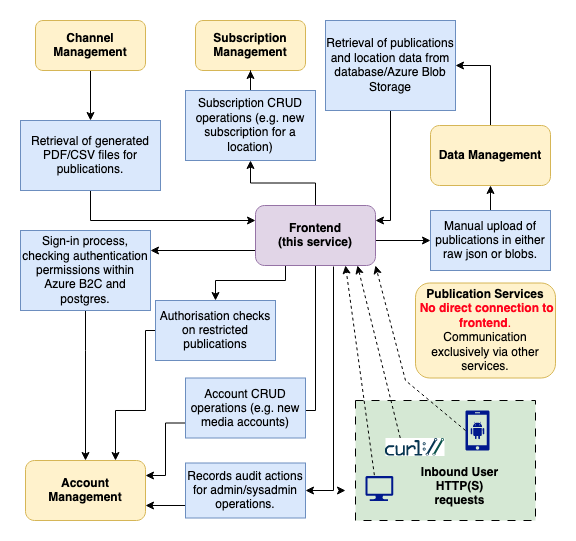
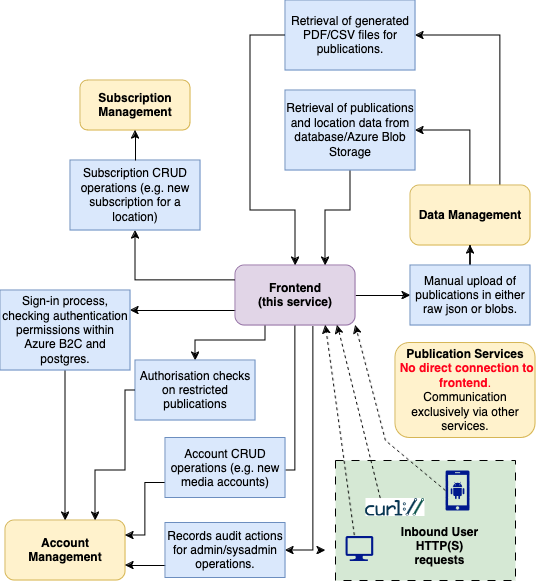
PUB-2359 Removed calls to channel-management (#1311)
* Removed calls to channel-management

* Bumping chart version/ fixing aliases

* Update readme diagram

* From line saying frontend is connecting to publication services from readme

* Update format of publication file endpoints

* Lint fixes

* Fixed failing unit tests

* Bumping chart version/ fixing aliases

* Bumping chart version/ fixing aliases

---------

diff --git a/src/test/unit/requests/publicationFileRequests.test.ts b/src/test/unit/requests/publicationFileRequests.test.ts
@@ -1,5 +1,5 @@
-import { channelManagementApi } from '../../../main/resources/requests/utils/axiosConfig';
-import { ChannelManagementRequests } from '../../../main/resources/requests/ChannelManagementRequests';
+import { dataManagementApi } from '../../../main/resources/requests/utils/axiosConfig';
+import { PublicationFileRequests } from '../../../main/resources/requests/PublicationFileRequests';
 import sinon from 'sinon';
 
 const dummyData = '123';
@@ -21,13 +21,13 @@ const fileSizeData = {
     excel: 123,
 };
 
-const channelManagementRequests = new ChannelManagementRequests();
+const publicationFileRequests = new PublicationFileRequests();
 
-const getStub = sinon.stub(channelManagementApi, 'get');
+const getStub = sinon.stub(dataManagementApi, 'get');
 
-getStub.withArgs('/publication/v2/abc').resolves({ data: dummyData });
-getStub.withArgs('/publication/v2/abc1').rejects(errorResponse);
-getStub.withArgs('/publication/v2/abc2').rejects(errorMessage);
+getStub.withArgs('/publication/abc/PDF').resolves({ data: dummyData });
+getStub.withArgs('/publication/abc1/PDF').rejects(errorResponse);
+getStub.withArgs('/publication/abc2/EXCEL').rejects(errorMessage);
 
 getStub.withArgs('/publication/abc/exists').resolves({ data: true });
 getStub.withArgs('/publication/abc1/exists').rejects(errorResponse);
@@ -37,52 +37,48 @@ getStub.withArgs('/publication/abc/sizes').resolves({ data: fileSizeData });
 getStub.withArgs('/publication/abc1/sizes').rejects(errorResponse);
 getStub.withArgs('/publication/abc2/sizes').rejects(errorMessage);
 
-describe('Channel Management requests', () => {
+describe('Publication file requests', () => {
     describe('Get stored file', () => {
         it('should return publication', async () => {
-            expect(
-                await channelManagementRequests.getStoredFile('abc', { 'x-user-id': userId, 'x-file-type': 'PDF' })
-            ).toEqual(dummyData);
+            expect(await publicationFileRequests.getStoredFile('abc', 'PDF', { 'x-user-id': userId })).toEqual(
+                dummyData
+            );
         });
 
         it('should return null if get fails', async () => {
-            expect(
-                await channelManagementRequests.getStoredFile('abc1', { 'x-user-id': userId, 'x-file-type': 'PDF' })
-            ).toBeNull();
+            expect(await publicationFileRequests.getStoredFile('abc1', 'PDF', { 'x-user-id': userId })).toBeNull();
         });
 
         it('should return null if request fails', async () => {
-            expect(
-                await channelManagementRequests.getStoredFile('abc2', { 'x-user-id': userId, 'x-file-type': 'EXCEL' })
-            ).toBeNull();
+            expect(await publicationFileRequests.getStoredFile('abc2', 'EXCEL', { 'x-user-id': userId })).toBeNull();
         });
     });
 
     describe('File exists', () => {
         it('should return true if file exists', async () => {
-            expect(await channelManagementRequests.fileExists('abc')).toEqual(true);
+            expect(await publicationFileRequests.fileExists('abc')).toEqual(true);
         });
 
         it('should return false and an error response if get fails', async () => {
-            expect(await channelManagementRequests.fileExists('abc1')).toEqual(false);
+            expect(await publicationFileRequests.fileExists('abc1')).toEqual(false);
         });
 
         it('should return false and an error response if request fails', async () => {
-            expect(await channelManagementRequests.fileExists('abc2')).toEqual(false);
+            expect(await publicationFileRequests.fileExists('abc2')).toEqual(false);
         });
     });
 
     describe('Get file sizes', () => {
         it('should return true if file exists', async () => {
-            expect(await channelManagementRequests.getFileSizes('abc')).toEqual(fileSizeData);
+            expect(await publicationFileRequests.getFileSizes('abc')).toEqual(fileSizeData);
         });
 
         it('should return false and an error response if get fails', async () => {
-            expect(await channelManagementRequests.getFileSizes('abc1')).toBeNull();
+            expect(await publicationFileRequests.getFileSizes('abc1')).toBeNull();
         });
 
         it('should return false and an error response if request fails', async () => {
-            expect(await channelManagementRequests.getFileSizes('abc2')).toBeNull();
+            expect(await publicationFileRequests.getFileSizes('abc2')).toBeNull();
         });
     });
 });

diff --git a/src/main/resources/requests/PublicationFileRequests.ts b/src/main/resources/requests/PublicationFileRequests.ts
@@ -1,17 +1,17 @@
-import { channelManagementApi } from './utils/axiosConfig';
+import { dataManagementApi } from './utils/axiosConfig';
 import { LogHelper } from '../logging/logHelper';
 import { PublicationFileSizes } from '../../models/PublicationFileSizes';
 
 const logHelper = new LogHelper();
 
-export class ChannelManagementRequests {
+export class PublicationFileRequests {
     /**
-     * Request to channel management to retrieve the stored PDF or Excel file from Azure blob storage.
+     * Request to data management to retrieve the stored PDF or Excel file from Azure blob storage.
      * @param artefactId the artefact ID of the PDF or Excel file in Azure blob storage.
      */
-    public async getStoredFile(artefactId, headers: object): Promise<string | null> {
+    public async getStoredFile(artefactId, fileType, headers: object): Promise<string | null> {
         try {
-            const response = await channelManagementApi.get(`/publication/v2/${artefactId}`, { headers });
+            const response = await dataManagementApi.get(`/publication/${artefactId}/${fileType}`, { headers });
             return response.data;
         } catch (error) {
             logHelper.logErrorResponse(
@@ -23,12 +23,12 @@ export class ChannelManagementRequests {
     }
 
     /**
-     * Request to channel management to check if any publication file exists.
+     * Request to data management to check if any publication file exists.
      * @param artefactId the artefact ID of the publication files in Azure blob storage.
      */
     public async fileExists(artefactId: string): Promise<boolean> {
         try {
-            const response = await channelManagementApi.get(`/publication/${artefactId}/exists`);
+            const response = await dataManagementApi.get(`/publication/${artefactId}/exists`);
             return response.data;
         } catch (error) {
             logHelper.logErrorResponse(
@@ -40,12 +40,12 @@ export class ChannelManagementRequests {
     }
 
     /**
-     * Request to channel management to retrieve the sizes of all publication files
+     * Request to data management to retrieve the sizes of all publication files
      * @param artefactId the artefact ID of the publication files in Azure blob storage.
      */
     public async getFileSizes(artefactId: string): Promise<PublicationFileSizes> {
         try {
-            const response = await channelManagementApi.get(`/publication/${artefactId}/sizes`);
+            const response = await dataManagementApi.get(`/publication/${artefactId}/sizes`);
             return response.data;
         } catch (error) {
             logHelper.logErrorResponse(

diff --git a/src/main/resources/requests/utils/axiosConfig.ts b/src/main/resources/requests/utils/axiosConfig.ts
@@ -27,10 +27,6 @@ const accountManagementUrl = process.env.ACCOUNT_MANAGEMENT_AZ_API
     ? process.env.ACCOUNT_MANAGEMENT_AZ_API
     : config.get('secrets.pip-ss-kv.ACCOUNT_MANAGEMENT_AZ_API');
 
-const channelManagementUrl = process.env.CHANNEL_MANAGEMENT_AZ_API
-    ? process.env.CHANNEL_MANAGEMENT_AZ_API
-    : config.get('secrets.pip-ss-kv.CHANNEL_MANAGEMENT_AZ_API');
-
 export const accountManagementApiUrl =
     process.env.ACCOUNT_MANAGEMENT_URL || 'https://pip-account-management.staging.platform.hmcts.net';
 export const dataManagementApi = axios.create({
@@ -44,10 +40,6 @@ export const subscriptionManagementApi = axios.create({
 });
 export const accountManagementApi = axios.create({
     baseURL: accountManagementApiUrl,
-    timeout: 10000,
-});
-export const channelManagementApi = axios.create({
-    baseURL: process.env.CHANNEL_MANAGEMENT_URL || 'https://pip-channel-management.staging.platform.hmcts.net',
     timeout: 10000,
 });
 export const cftIdamTokenApi = axios.create({
@@ -67,7 +59,6 @@ function createCredentials(url): (scope: any) => any {
 export const getDataManagementCredentials = createCredentials(dataManagementUrl);
 export const getSubscriptionManagementCredentials = createCredentials(subscriptionManagementUrl);
 export const getAccountManagementCredentials = createCredentials(accountManagementUrl);
-export const getChannelManagementCredentials = createCredentials(channelManagementUrl);
 
 const getBearerToken = (tokenCache, config) => {
     const bearer = tokenProvider({
@@ -88,7 +79,6 @@ const subscriptionManagementCacheToken = tokenProvider.tokenCache(
     getMaxAgeOfCache
 );
 const accountManagementCacheToken = tokenProvider.tokenCache(getAccountManagementCredentials as any, getMaxAgeOfCache);
-const channelManagementCacheToken = tokenProvider.tokenCache(getChannelManagementCredentials as any, getMaxAgeOfCache);
 
 if (!process.env.INSECURE) {
     dataManagementApi.interceptors.request.use(async (config: InternalAxiosRequestConfig<any>) => {
@@ -101,9 +91,5 @@ if (!process.env.INSECURE) {
 
     accountManagementApi.interceptors.request.use(async (config: InternalAxiosRequestConfig<any>) => {
         return getBearerToken(accountManagementCacheToken, config) as Promise<InternalAxiosRequestConfig<any>>;
-    });
-
-    channelManagementApi.interceptors.request.use(async (config: InternalAxiosRequestConfig<any>) => {
-        return getBearerToken(channelManagementCacheToken, config) as Promise<InternalAxiosRequestConfig<any>>;
     });
 }

diff --git a/src/test/unit/service/ListDownloadService.test.ts b/src/test/unit/service/ListDownloadService.test.ts
@@ -1,6 +1,6 @@
 import sinon from 'sinon';
 import { expect } from 'chai';
-import { ChannelManagementRequests } from '../../../main/resources/requests/ChannelManagementRequests';
+import { PublicationFileRequests } from '../../../main/resources/requests/PublicationFileRequests';
 import { ListDownloadService } from '../../../main/service/ListDownloadService';
 import { AccountManagementRequests } from '../../../main/resources/requests/AccountManagementRequests';
 
@@ -17,16 +17,16 @@ const isAuthorisedStub = sinon.stub(AccountManagementRequests.prototype, 'isAuth
 isAuthorisedStub.withArgs('1').resolves(true);
 isAuthorisedStub.withArgs('2').resolves(false);
 
-const fileExistsStub = sinon.stub(ChannelManagementRequests.prototype, 'fileExists');
+const fileExistsStub = sinon.stub(PublicationFileRequests.prototype, 'fileExists');
 fileExistsStub.withArgs('123').resolves(true);
 fileExistsStub.withArgs('124').resolves(false);
 
-const downloadFilesStub = sinon.stub(ChannelManagementRequests.prototype, 'getStoredFile');
-downloadFilesStub.withArgs('123', { 'x-user-id': '1234', 'x-file-type': 'PDF' }).resolves(expectedPdfData);
-downloadFilesStub.withArgs('123', { 'x-user-id': '1234', 'x-file-type': 'EXCEL' }).resolves(expectedExcelData);
-downloadFilesStub.withArgs('124', { 'x-user-id': '1234', 'x-file-type': 'PDF' }).resolves(null);
+const downloadFilesStub = sinon.stub(PublicationFileRequests.prototype, 'getStoredFile');
+downloadFilesStub.withArgs('123', 'PDF', { 'x-user-id': '1234' }).resolves(expectedPdfData);
+downloadFilesStub.withArgs('123', 'EXCEL', { 'x-user-id': '1234' }).resolves(expectedExcelData);
+downloadFilesStub.withArgs('124', 'PDF', { 'x-user-id': '1234' }).resolves(null);
 
-const getFileSizeStub = sinon.stub(ChannelManagementRequests.prototype, 'getFileSizes');
+const getFileSizeStub = sinon.stub(PublicationFileRequests.prototype, 'getFileSizes');
 getFileSizeStub.withArgs('123').resolves({
     primaryPdf: 1024,
     additionalPdf: null,
@@ -96,7 +96,7 @@ describe('List Download Service', () => {
             expect(response).to.equal(expectedExcelData);
         });
 
-        it('should return null if channel management does not return any file', async () => {
+        it('should return null if data management does not return any file', async () => {
             const response = await listDownloadService.getFile('124', userId, 'pdf');
             expect(response).to.be.null;
         });

diff --git a/src/main/service/ListDownloadService.ts b/src/main/service/ListDownloadService.ts
@@ -1,23 +1,23 @@
-import { ChannelManagementRequests } from '../resources/requests/ChannelManagementRequests';
+import { PublicationFileRequests } from '../resources/requests/PublicationFileRequests';
 import { FileType } from '../helpers/consts';
 import { AccountManagementRequests } from '../resources/requests/AccountManagementRequests';
 import stream from 'stream';
 
-const channelManagementRequests = new ChannelManagementRequests();
+const publicationFileRequests = new PublicationFileRequests();
 const accountManagementRequests = new AccountManagementRequests();
 
 const numberOfBytes = 1024;
 
 export class ListDownloadService {
     public async showDownloadButton(artefactId, user): Promise<boolean> {
-        return user && user['roles'] === 'VERIFIED' ? await channelManagementRequests.fileExists(artefactId) : false;
+        return user && user['roles'] === 'VERIFIED' ? await publicationFileRequests.fileExists(artefactId) : false;
     }
 
     public async getFile(artefactId, userId, fileExtension): Promise<string> {
         if (artefactId) {
-            return await channelManagementRequests.getStoredFile(artefactId, {
+            const fileType = Object.keys(FileType)[Object.values(FileType).indexOf(fileExtension)];
+            return await publicationFileRequests.getStoredFile(artefactId, fileType, {
                 'x-user-id': userId,
-                'x-file-type': Object.keys(FileType)[Object.values(FileType).indexOf(fileExtension)],
             });
         }
         return null;
@@ -25,7 +25,7 @@ export class ListDownloadService {
 
     public async getFileSize(artefactId, fileExtension): Promise<string> {
         const byteUnits = ['KB', 'MB'];
-        const fileSizes = await channelManagementRequests.getFileSizes(artefactId);
+        const fileSizes = await publicationFileRequests.getFileSizes(artefactId);
 
         if (fileSizes) {
             let fileSize;

diff --git a/src/test/unit/resources/requests/utils/axiosConfigTest.ts b/src/test/unit/resources/requests/utils/axiosConfigTest.ts
@@ -57,14 +57,6 @@ describe('Testing environment variables', () => {
         expect(configSpy.neverCalledWith('secrets.pip-ss-kv.ACCOUNT_MANAGEMENT_AZ_API')).toBeTruthy();
     });
 
-    it('Test that channel management URL is set from environment variable', async () => {
-        process.env.CHANNEL_MANAGEMENT_AZ_API = '1234';
-
-        await import('../../../../../main/resources/requests/utils/axiosConfig');
-
-        expect(configSpy.neverCalledWith('secrets.pip-ss-kv.CHANNEL_MANAGEMENT_AZ_API')).toBeTruthy();
-    });
-
     afterAll(() => {
         delete process.env.ALLOW_CONFIG_MUTATIONS;
         delete process.env.TENANT_ID;
@@ -73,6 +65,5 @@ describe('Testing environment variables', () => {
         delete process.env.DATA_MANAGEMENT_AZ_API;
         delete process.env.SUBSCRIPTION_MANAGEMENT_AZ_API;
         delete process.env.ACCOUNT_MANAGEMENT_AZ_API;
-        delete process.env.CHANNEL_MANAGEMENT_AZ_API;
     });
 });

diff --git a/README.md b/README.md
@@ -50,8 +50,6 @@ It is connected to several other microservices in production (all written in Jav
 |-------------------------------------------|-------------------------------------------------------------------------------------------------------------------------------------------------------------------------------------------------------------------------------------------------------------|
 | pip-data-management (`port:8090`)         | Communicates with [postgres](https://www.postgresql.org/) and [Azure Blob Storage](https://azure.microsoft.com/en-us/products/storage/blobs) and controls file storage, file ingestion, reference data and validation                                       |
 | pip-subscription-management (`port:4550`) | Handles all operations related to subscriptions, including all CRUD operations and the triggering of the fulfilment process.                                                                                                                                |
-| pip-channel-management(`port:8181`)       | Handles operations related to retrieving subscription channels, and the generation of alternative publishing formats used throughout the subscription process (such as PDFs).                                                                               |
-| pip-publication-services(`port:8081`)     | Handles operations related to sending of notification emails to verified users, admin users and publication subscribers using [GOV.UK Notify](https://www.notifications.service.gov.uk/), as well as forwarding of publications to third-party publishers.  |
 | pip-account-management(`port:6969`)       | Handles operations related to accounts, including interaction with Azure B2C for PI_AAD users. It also manages the audit functionality.                                                                                                                     |
 
 Most of the communication with this service benefits from using secure authentication. While possible to stand up locally in insecure mode, to simulate a production environment it is better to use secure mode.
@@ -129,7 +127,6 @@ Python scripts to quickly grab all environment variables (subject to Azure permi
 | ACCOUNT_MANAGEMENT_URL             | URL used for connecting to the pip-account-management service. Defaults to staging if not provided.                                                                                     | No        |
 | DATA_MANAGEMENT_URL                | URL used for connecting to the pip-data-management service. Defaults to staging if not provided.                                                                                        | No        |
 | SUBSCRIPTION_MANAGEMENT_URL        | URL used for connecting to the pip-subscription-management service. Defaults to staging if not provided.                                                                                | No        |
-| CHANNEL_MANAGEMENT_URL             | URL used for connecting to the pip-channel-management service. Defaults to staging if not provided.                                                                                     | No        |
 | AUTH_RETURN_URL                    | URL used to redirect user to the service after authentication with Azure B2C. Defaults to staging if not provided.                                                                      | No        |
 | ADMIN_AUTH_RETURN_URL              | Same as above, but for admin sign in.                                                                                                                                                   | No        |
 | MEDIA_VERIFICATION_RETURN_URL      | Same as above, but for after a media user verifies their account using the OTP process                                                                                                  | No        |
@@ -147,7 +144,6 @@ Python scripts to quickly grab all environment variables (subject to Azure permi
 | DATA_MANAGEMENT_AZ_API             | Used as part of the `scope` parameter when requesting a token from Azure. Used for service-to-service communication with the pip-data-management service                                | No        |
 | ACCOUNT_MANAGEMENT_AZ_API          | Used as part of the `scope` parameter when requesting a token from Azure. Used for service-to-service communication with the pip-account-management service                             | No        |
 | SUBSCRIPTION_MANAGEMENT_AZ_API     | Used as part of the `scope` parameter when requesting a token from Azure. Used for service-to-service communication with the pip-subscription-management service                        | No        |
-| CHANNEL_MANAGEMENT_AZ_API          | Used as part of the `scope` parameter when requesting a token from Azure. Used for service-to-service communication with the pip-channel-management service                             | No        |
 | ENABLE_CFT                         | Boolean determining whether CFT IDAM login is possible (defaults to false for local)                                                                                                    | No        |
 | CFT_REJECTED_ROLES_REGEX           | Allows you to override the rejected roles regex for CFT                                                                                                                                 | No        |
 | INSTRUMENTATION_KEY                | This is the instrumentation key used by the app to talk to Application Insights                                                                                                         | No        |
